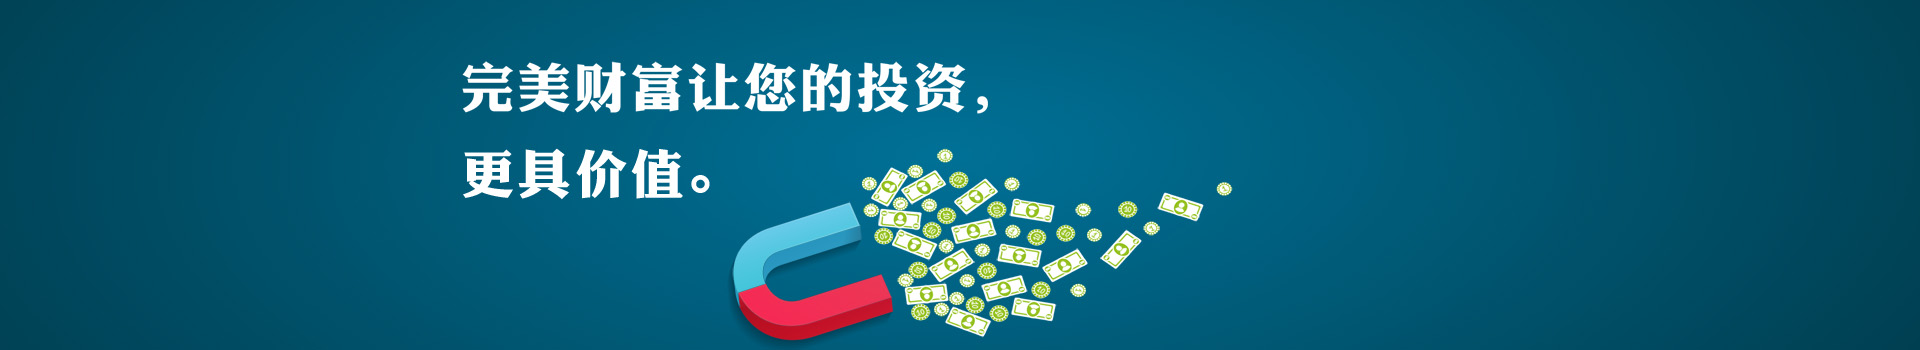
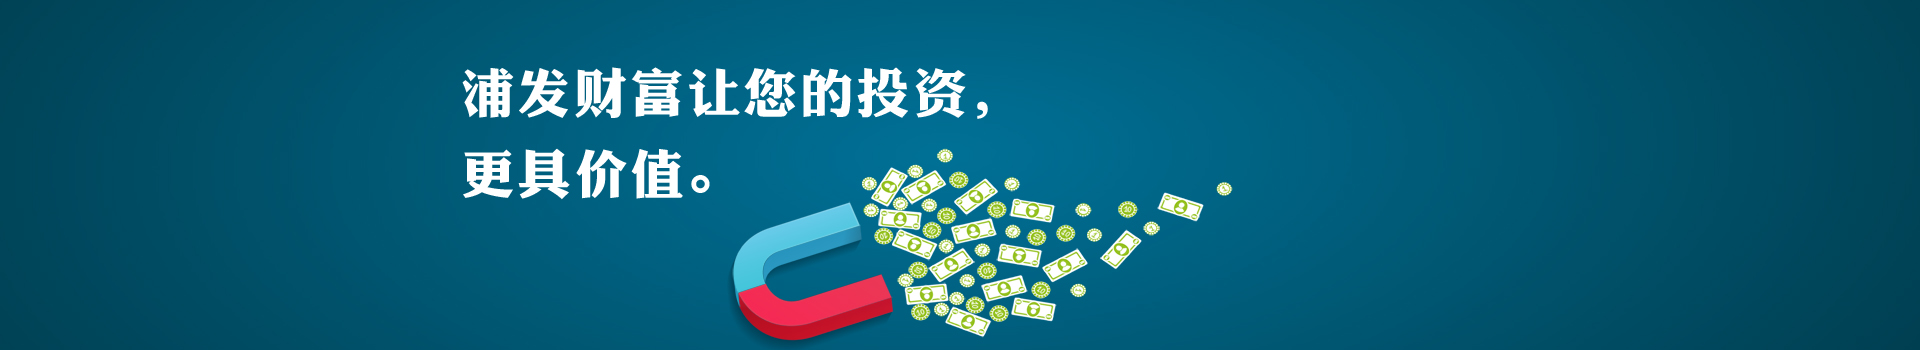
修正产品列表AJAX问题,修改了完美财富相关图片为浦发财富

Changed region(s): [[0.2188, 0.1714, 0.5312, 0.3429]]

diff --git a/app/Tpl/red/inc/caculator.html b/app/Tpl/red/inc/caculator.html
@@ -1,72 +1,3 @@
-<script type='text/javascript' src="{$TMPL}/js/jquerycaculator.js"></script>
-<script language="JavaScript">
-$(document).ready(function(e) {
-    //principal本金,interest利率,yield收益
-	
-	var principal,interest,nowInterest,moon,yield,nextSelect,vel,str;	//本金,最终利率,该投资项目的最初利率,投资周期,收益,获取投资项目的name,正则规则,正则判断
-	
-	vel = /^\d+(\.\d+)?$/;	//只能是数字
-	
-	$("#goods select").live('change',function(){
-		$("#yield input").val();
-		
-		principal = $("#principal input").val();	//本金
-		
-		$(this).children("option[value=x]").remove();
-			
-		nextSelect = $(this).val();	//这个只是获取下一个select的name
-		
-		$("#ctyle input").val("");
-		$("#ctyle select").css("display","none");
-		$("#ctyle select[name="+nextSelect+"]").removeAttr("style","display");
-	})
-	
-	$("#ctyle select").live('change',function(){
-		$(this).children("option[value=x]").remove();
-		
-		nowInterest = $(this).val();	//当前利率
-		
-		moon = $(this).find("option:selected").attr("moon");	//投资的周期
-		moon = moon/12;
-		
-	})
-	
-	$("#compute img").live('click',function(){
-		
-		principal = $("#principal input").val();	//本金
-		str = vel.exec(principal);	//正则
-		
-		interest = nowInterest;	//赋值
-		
-		if( nextSelect == 'xindai'){	//判断是否选的是信贷三期,判断投资金额的范围使用的利率
-			if( principal >= 20 && principal < 50){
-				interest = nowInterest*1 + 10
-			}
-			if( principal >= 50 && principal < 100){
-				interest = nowInterest*1 + 20
-			}
-			if( principal >= 100 && principal < 200){
-				interest = nowInterest*1 + 25
-			}
-			if( principal >= 300){
-				interest = nowInterest*1 + 30
-			}
-		}
-		
-		if(principal != '' && str != ''){
-			yield = parseInt(principal * 1 * interest * 1 * moon * 1 * 10);	//最终收益 = 本金 * 千分比利率 * 月数 * 10(利率除以1000再乘以10000元等于10,万元转换成元)
-			$("#yield input").val(yield);
-		}
-		else{
-			alert("要输入投资金额并且只能数字才有结果哦!");return false;
-		}
-		
-	})
-	
-});
-</script>
-
-
 <div class="bddf clearfix" style="border-top:0">
     <div class="gray_title clearfix">
         <div class="f_l f_dgray b">投资收益计算器</div>
@@ -131,7 +62,7 @@ $(document).ready(function(e) {
         
         <div id="compute" class="f_l">
              <div style="text-align:center; margin:5px 0;height:30px;width: 150px;">
-		     	<img src="{$TMPL}/images/calculate.png" alt="" style="cursor: pointer; margin-left:45px" onclick="calculate()">
+		     	<img src="{$TMPL}/images/calculate.png" alt="" style="cursor: pointer; margin-left:45px">
 		     </div>
         </div>
     

diff --git a/app/Tpl/red/page/deals.html b/app/Tpl/red/page/deals.html
@@ -667,6 +667,72 @@
 </div>
 <script type="text/javascript">
 	jQuery(function(){
+	
+	var principal,interest,nowInterest,moon,yield,nextSelect,vel,str;	//本金,最终利率,该投资项目的最初利率,投资周期,收益,获取投资项目的name,正则规则,正则判断
+	
+	vel = /^\d+(\.\d+)?$/;	//只能是数字
+	
+	$("#goods select").live('change',function(){
+		$("#yield input").val();
+		
+		principal = $("#principal input").val();	//本金
+		
+		$(this).children("option[value=x]").remove();
+			
+		nextSelect = $(this).val();	//这个只是获取下一个select的name
+		
+		$("#ctyle input").val("");
+		$("#ctyle select").css("display","none");
+		$("#ctyle select[name="+nextSelect+"]").removeAttr("style","display");
+	})
+	
+	$("#ctyle select").live('change',function(){
+		$(this).children("option[value=x]").remove();
+		
+		nowInterest = $(this).val();	//当前利率
+		
+		moon = $(this).find("option:selected").attr("moon");	//投资的周期
+		moon = moon/12;
+		
+	})
+	
+	$("#compute img").live('click',function(){
+		
+		principal = $("#principal input").val();	//本金
+		str = vel.exec(principal);	//正则
+		
+		interest = nowInterest;	//赋值
+		
+		if( nextSelect == 'xindai'){	//判断是否选的是信贷三期,判断投资金额的范围使用的利率
+			if( principal >= 20 && principal < 50){
+				interest = nowInterest*1 + 10
+			}
+			if( principal >= 50 && principal < 100){
+				interest = nowInterest*1 + 20
+			}
+			if( principal >= 100 && principal < 200){
+				interest = nowInterest*1 + 25
+			}
+			if( principal >= 300){
+				interest = nowInterest*1 + 30
+			}
+		}
+		
+		if(principal != '' && str != ''){
+			yield = parseInt(principal * 1 * interest * 1 * moon * 1 * 10);	//最终收益 = 本金 * 千分比利率 * 月数 * 10(利率除以1000再乘以10000元等于10,万元转换成元)
+			$("#yield input").val(yield);
+		}
+		else{
+			alert("要输入投资金额并且只能数字才有结果哦!");return false;
+		}
+		
+	})
+	
+	
+	
+	
+	
+	
 		$("#searchByKeyForm .searchinput").bind("focus",function(){
 			if($.trim($(this).val())=="请输入您的搜索条件"){
 				$(this).val("");
